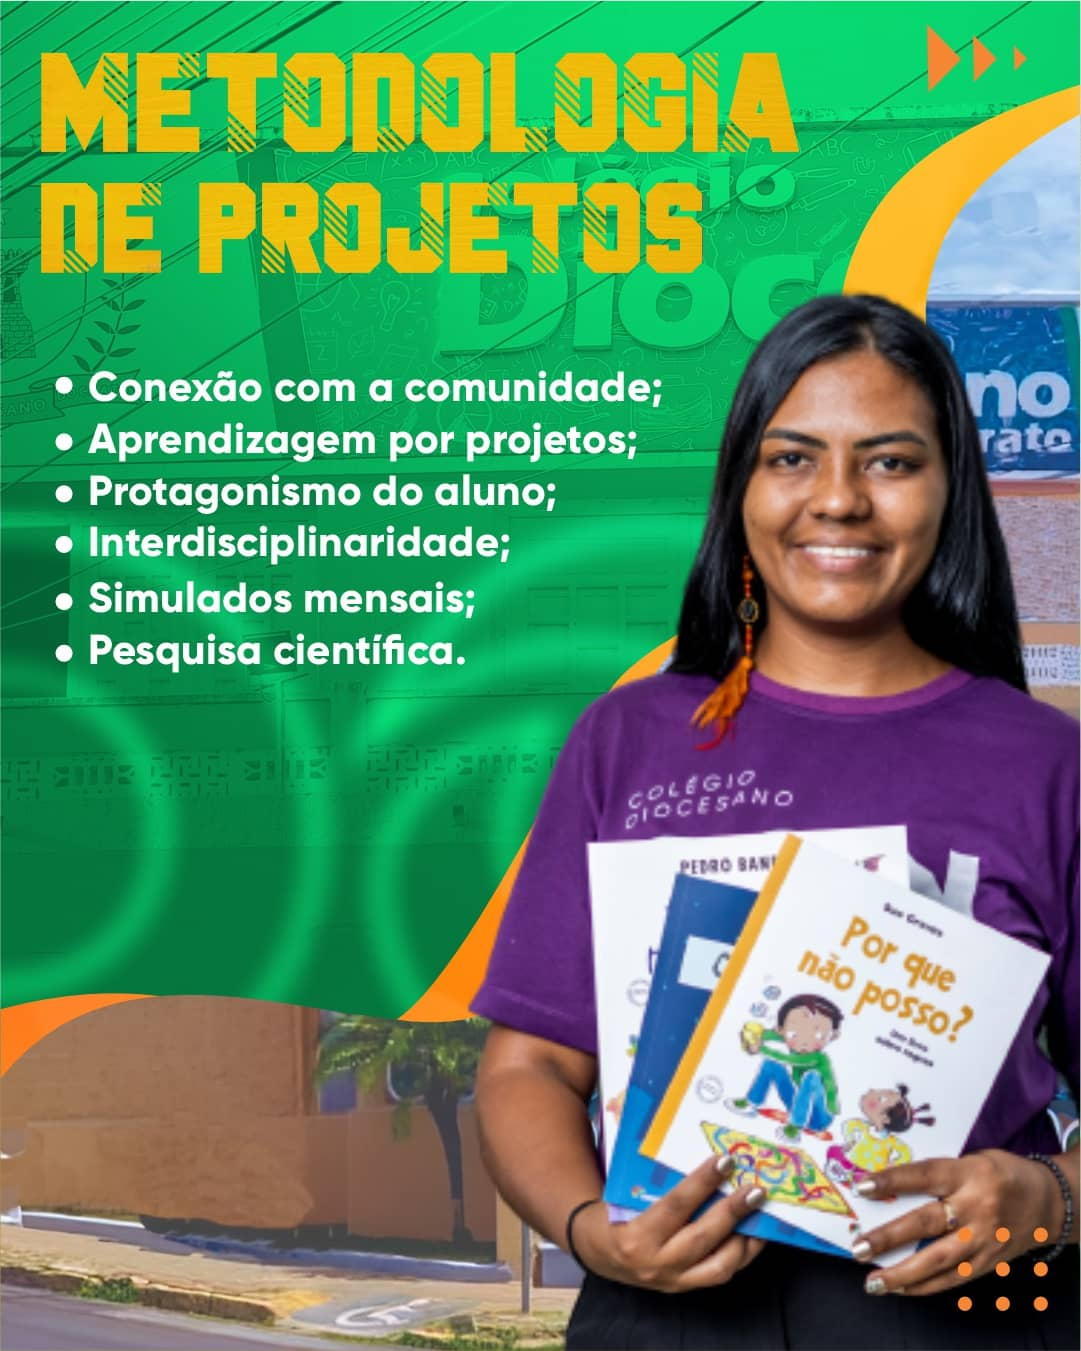
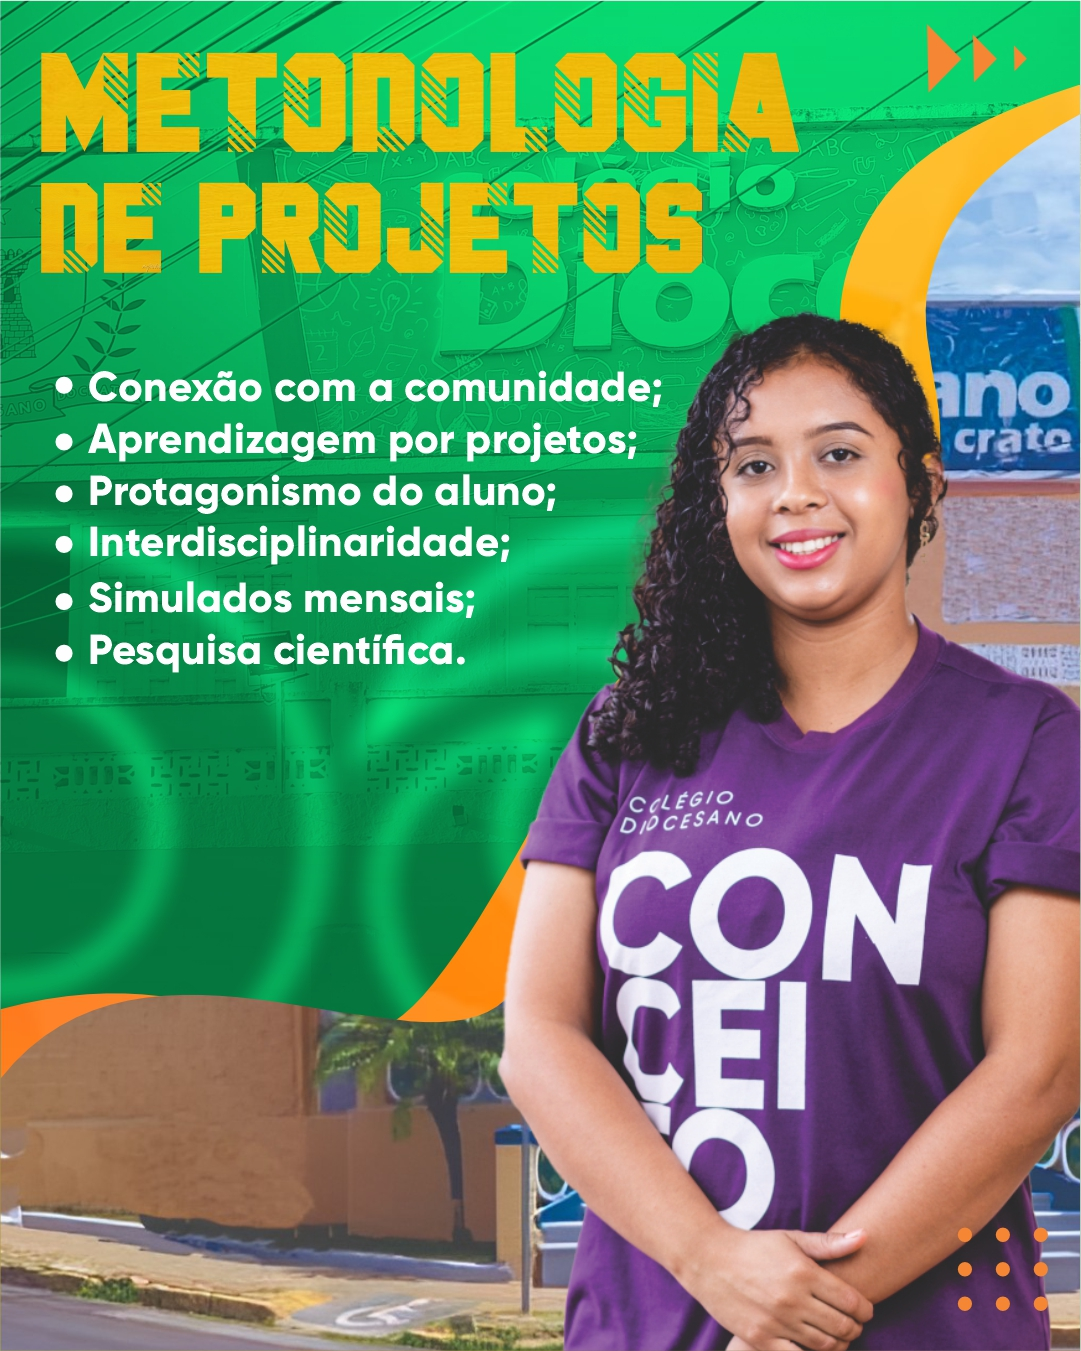
Alterações:
- Mudança de fotos no carrosel da pagina inicial
- Inserção do inicio do desenvolvimento da nova pagina galeria

diff --git a/galeria.html b/galeria.html
@@ -77,42 +77,56 @@
         <button class="btn-flutuante" id="btn-flutuante-wpp">
             <a href="https://api.whatsapp.com/send?phone=5588997137570&text=Ol%C3%A1%2C+gostaria+de+mais+informa%C3%A7%C3%B5es%21+%F0%9F%98%8A" target="_blank"><i class="bi bi-whatsapp"></i></a>
         </button>
+        
+        <section class="secao-galeria container d-flex justify-content-center flex-column">
+            <div class="slider">
+                <div class="slides">
+                    <input type="radio" name="radio-btn" id="radio1">
+                    <input type="radio" name="radio-btn" id="radio2">
+                    <input type="radio" name="radio-btn" id="radio3">
+                    <input type="radio" name="radio-btn" id="radio4">
 
-        <section class="secao-inicial container-fluid" id="galeria">
-            <div class="overlay"></div>
-            <div class="d-flex justify-content-center">
-                <div class="titulo-cursos">
-                    <h1>Galeria</h1>
+                    <div class="slide first">
+                        <img src="https://www.macrofotografia.com.br/imagens/pixelsvsdpi_1200x900pixels.jpg" alt="">
+                    </div>
+                    <div class="slide">
+                        <img src="https://img.freepik.com/fotos-gratis/uma-pintura-de-um-lago-de-montanha-com-uma-montanha-ao-fundo_188544-9126.jpg" alt="">
+                    </div>
+                    <div class="slide">
+                        <img src="https://img.freepik.com/fotos-gratis/uma-pintura-de-um-lago-de-montanha-com-uma-montanha-ao-fundo_188544-9126.jpg" alt="">
+                    </div>
+                    <div class="slide">
+                        <img src="https://img.freepik.com/fotos-gratis/uma-pintura-de-um-lago-de-montanha-com-uma-montanha-ao-fundo_188544-9126.jpg" alt="">
+                    </div>
+
+                    <div class="navigation-auto">
+                        <div class="auto-btn1"></div>
+                        <div class="auto-btn2"></div>
+                        <div class="auto-btn3"></div>
+                        <div class="auto-btn4"></div>
+                    </div>
                 </div>
             </div>
+
+            <div class="navigation-manual">
+                <label for="radio1" class="manual-btn">
+                    <img src="https://t4.ftcdn.net/jpg/02/07/14/61/360_F_207146113_pYxJxXnycGDGGJWWHv3Xp59iqH7Q5TPk.jpg" alt="" class="miniatura">
+                </label>
+
+                <label for="radio2" class="manual-btn">
+                    <img src="https://t4.ftcdn.net/jpg/03/23/39/93/360_F_323399324_Mwp1vUbt5u4h1I2cEj8HfRUsKybxoJf0.jpg" alt="" class="miniatura"> 
+                    <h1>ldldll</h1>
+                </label>
+
+                <label for="radio3" class="manual-btn">
+                    <img src="https://upload.wikimedia.org/wikipedia/commons/6/63/Logo_La_Linea_100x100.png" alt="" class="miniatura">
+                </label>
+
+                <label for="radio4" class="manual-btn">
+                    <img src="https://cdn.pixabay.com/photo/2017/06/29/19/58/said-2455984_1280.jpg" alt="" class="miniatura">
+                </label>
+            </div>
         </section>
-
-        
-        <section class="secao-conteudo container" id="conteudo-galeria">
-            <div id="carouselExampleAutoplaying" class="carousel slide" data-bs-ride="carousel">
-                <div class="carousel-inner">
-                    <div class="carousel-item active">
-                        <img src="src/images/artigos-cursos/eixo.jpg" class="d-block w-100" alt="...">
-                    </div>
-                    <div class="carousel-item">
-                        <img src="..." class="d-block w-100" alt="...">
-                    </div>
-                    <div class="carousel-item">
-                        <img src="..." class="d-block w-100" alt="...">
-                    </div>
-                </div>
-
-                <button class="carousel-control-prev" type="button" data-bs-target="#carouselExampleAutoplaying" data-bs-slide="prev">
-                    <span class="carousel-control-prev-icon" aria-hidden="true"></span>
-                    <span class="visually-hidden">Previous</span>
-                </button>
-
-                <button class="carousel-control-next" type="button" data-bs-target="#carouselExampleAutoplaying" data-bs-slide="next">
-                    <span class="carousel-control-next-icon" aria-hidden="true"></span>
-                    <span class="visually-hidden">Next</span>
-                </button>
-              </div>
-        </section>  
 
     </main>
 
@@ -188,6 +202,9 @@
         </div>
     </footer>
 
+    <script>
+
+    </script>
     <script> AOS.init({duration: 700}); </script>
 </body>
 </html>

diff --git a/src/css/styles.css b/src/css/styles.css
@@ -1001,17 +1001,82 @@ main .secao-conteudo .article ul li {
     margin-bottom: 10px;
 }
 
-/* main .secao-conteudo .gallery {
-    display: grid;
-    grid-template-columns: repeat(auto-fit, minmax(250px, 1fr));
-    grid-gap: 30px;
+
+main .secao-galeria {
+    min-height: calc(100vh - 97px);
+    margin: 97px auto;
+    gap: 10px;
+
 }
 
-main .secao-conteudo .gallery img {
-    width: 100%;
-} */
+main .secao-galeria .slider{
+    display: flex;
+    justify-content: center;
+    width: 1140px;    
+    overflow: hidden;
+    height: 450px;
+}
 
-main #conteudo-galeria {
-    min-height: calc(90vh - 97px);
-    padding-top: 0 !important; margin-top: 0 !important;
+.slider .slides {
+    width: 100%;    
+    height: 450px;
+    display: flex;
+    border-radius: 5px;
+}
+
+.slider .slides input {
+    display: none;
+}
+
+.slides .slide {
+    display: flex;
+    border-radius: 5px;
+}
+
+.slides .slide img {
+    width: 1140px;
+    border-radius: 5px;
+}
+
+.navigation-manual {
+    width: 1140px;     
+    display: flex;
+    flex-direction: row;
+    justify-content: center;
+    gap: 20px;
+}
+
+.manual-btn {
+    border-radius: 10px;
+    width: 100px;
+    height: 100px;
+    overflow: hidden;
+    cursor: pointer; 
+}   
+
+.manuel-btn .miniatura{
+    width: 100px;
+    height: 100px;
+  
+}
+
+
+#radio1:checked ~ .first {
+    margin-left: 0%;
+    transition: all 1s;
+}
+
+#radio2:checked ~ .first {
+    margin-left: -100%;
+    transition: all 1s;
+}
+
+#radio3:checked ~ .first {
+    margin-left: -200%;
+    transition: all 1s;
+}
+
+#radio4:checked ~ .first {
+    margin-left: -300%;
+    transition: all 1s;
 }

diff --git a/eixoglobal.html b/eixoglobal.html
@@ -32,15 +32,15 @@
             <nav class="nav-bar col-8">
                 <ul class="desktop-menu" id="menu">
                     <li class="item-menu">
-                        <a href="./index.html" class="nav-link" onclick="changePage('inicio')">Inicio</a>
+                        <a href="./index.html" class="nav-link" >Inicio</a>
                     </li>
 
                     <li class="item-menu">
-                        <a href="./eixoglobal.html" class="nav-link" onclick="changePage('eixoglobal')">Eixo global</a>
+                        <a href="./eixoglobal.html" class="nav-link">Eixo global</a>
                     </li>
 
                     <li class="item-menu" id="item-menu-cursos">
-                        <a href="./index.html#secao-cursos" class="nav-link" onclick="changePage('cursos')">Cursos</a>
+                        <a href="./index.html#secao-cursos" class="nav-link">Cursos</a>
                         <ul class="aba-cursos">
                             <li><a href="./infantil.html">Educação Infantil</a></li>
                             <li><a href="./fundamental.html">Ensino Fundamental</a></li>
@@ -50,7 +50,11 @@
                     </li>
 
                     <li class="item-menu">
-                        <a href="#footer_contacts" class="nav-link" onclick="changePage('footer')">Contato</a>
+                        <a href="galeria.html" class="nav-link" >Galeria</a>
+                    </li>
+
+                    <li class="item-menu">
+                        <a href="#footer_contacts" class="nav-link" >Contato</a>
                     </li>
                 </ul>
 

diff --git a/index.html b/index.html
@@ -111,7 +111,7 @@
                             <picture class="d-block w-100">
                                 <source media="(max-width: 500px)" srcset="src/images/carrousel-mobile/img-4-mobile.jpg" type="image/jpg">
                                 <source media="(max-width: 992px)" srcset="src/images/carrousel/04.jpg" type="image/jpeg">
-                                <img src="src/images/carrousel-desktop/imagem-desktop-04.png" class="img-fluid" alt="">
+                                <img src="src/images/carrousel-desktop/imagem-desktop-04.jpg" class="img-fluid" alt="">
                             </picture>
                         </div>
                         <div class="carousel-item imagem-carrousel">
